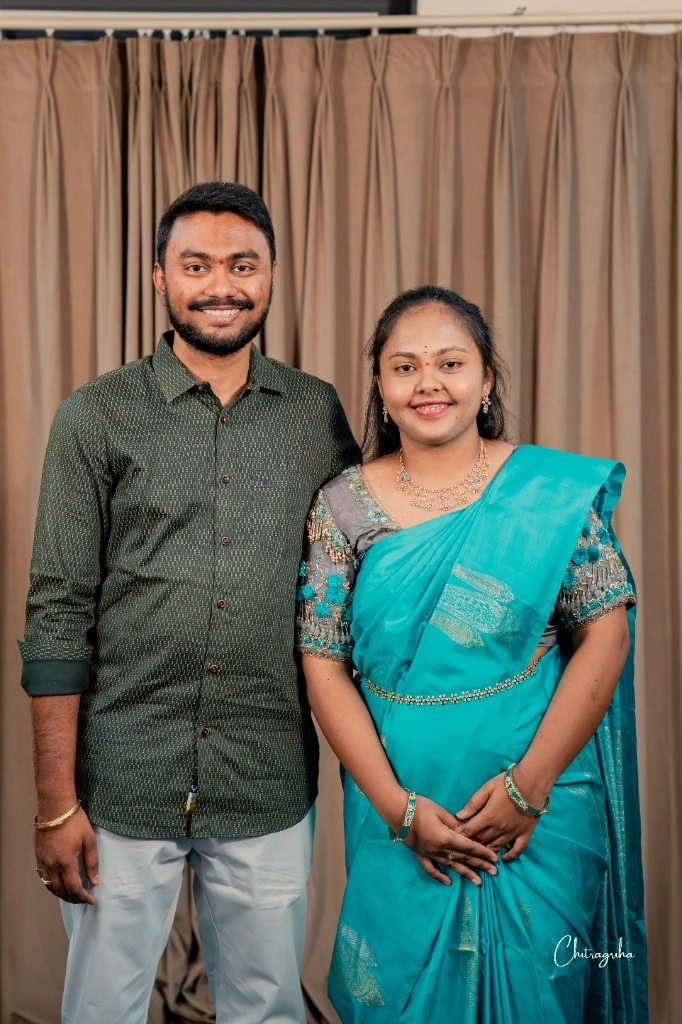
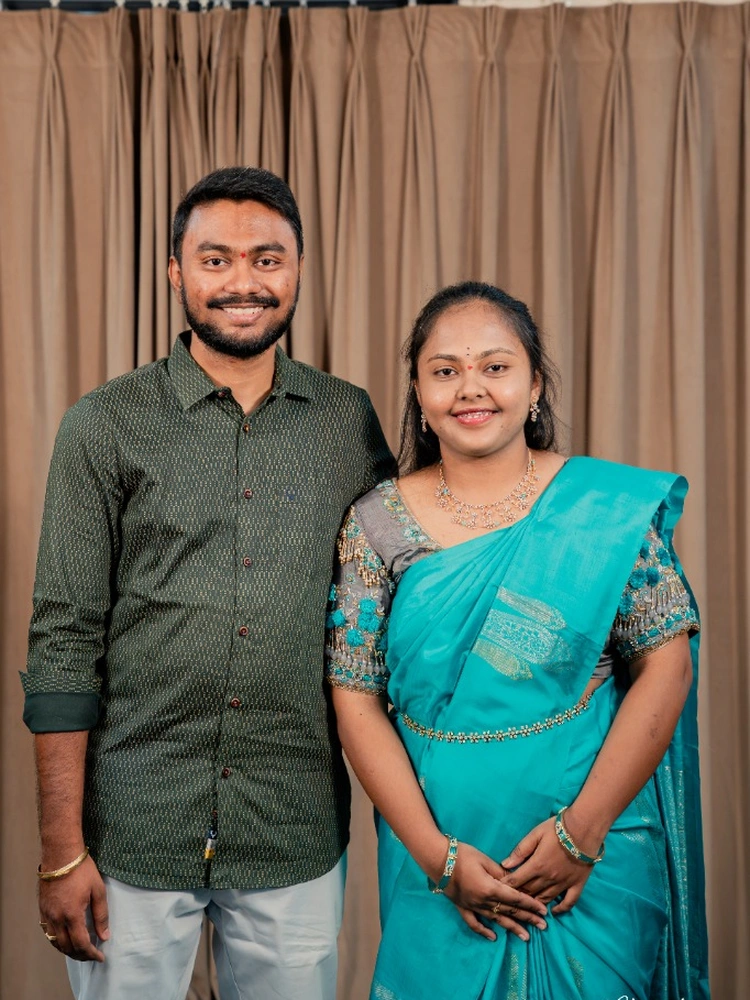
fix: center groom portrait, 3 couple photos centered in 3:4 frame, two-line hero date/place, responsive RSVP event card grid

diff --git a/index.html b/index.html
@@ -145,9 +145,10 @@
           <span class="div-line"></span>
         </div>
 
-        <!-- Single Line Wedding Date -->
+        <!-- Wedding Date & Venue City (Two Lines) -->
         <div class="hero-date">
-          <span>21 – 23 DECEMBER 2026 · RAYADURGAM</span>
+          <span class="hero-date-line">21 – 23 DECEMBER 2026</span>
+          <span class="hero-place-line">RAYADURGAM</span>
         </div>
 
       </div>
@@ -329,27 +330,17 @@
           <div class="big-carousel-slides" id="gallerySlides">
             <div class="big-slide-item active">
               <div class="big-photo-frame">
-                <img src="assets/gallery-couple-1.webp" alt="Royal Wedding Couple" />
+                <img src="assets/gallery-couple-1.webp" alt="Gurupreetham &amp; Sai Niharika" />
               </div>
             </div>
             <div class="big-slide-item">
               <div class="big-photo-frame">
-                <img src="assets/gallery-couple-2.webp" alt="Cherished Candid Moments" />
+                <img src="assets/gallery-couple-2.webp" alt="Cherished Moments Together" />
               </div>
             </div>
             <div class="big-slide-item">
               <div class="big-photo-frame">
-                <img src="assets/gallery-couple-3.webp" alt="Timeless Love and Warm Embrace" />
-              </div>
-            </div>
-            <div class="big-slide-item">
-              <div class="big-photo-frame">
-                <img src="assets/gallery-couple-4.webp" alt="Traditional Ceremonial Festivities" />
-              </div>
-            </div>
-            <div class="big-slide-item">
-              <div class="big-photo-frame">
-                <img src="assets/gallery-couple-5.webp" alt="Cherished Moments with Family" />
+                <img src="assets/gallery-couple-3.webp" alt="Gurupreetham &amp; Sai Niharika Celebrating with Rings" />
               </div>
             </div>
           </div>
@@ -572,26 +563,48 @@
 
           <!-- Attendance Details Section (Hidden automatically when 'Regretfully Decline' is clicked) -->
           <div id="rsvp-attendance-details">
-            <div class="form-row-dual">
-              <div class="form-field">
-                <label for="rsvp-guests">Number of Guests</label>
-                <select id="rsvp-guests">
-                  <option value="1">1 Person</option>
-                  <option value="2" selected>2 Persons</option>
-                  <option value="3">3 Persons</option>
-                  <option value="4">4 Persons</option>
-                  <option value="5+">5+ Family</option>
-                </select>
-              </div>
+            <div class="form-field">
+              <label for="rsvp-guests">Number of Guests</label>
+              <select id="rsvp-guests">
+                <option value="1">1 Person</option>
+                <option value="2" selected>2 Persons</option>
+                <option value="3">3 Persons</option>
+                <option value="4">4 Persons</option>
+                <option value="5+">5+ Family Members</option>
+              </select>
+            </div>
 
-              <div class="form-field">
-                <label>Events Attending</label>
-                <div class="event-checkboxes">
-                  <label><input type="checkbox" name="events" value="Haldi (21 Dec)" checked /> Haldi (21 Dec)</label>
-                  <label><input type="checkbox" name="events" value="Rayadurgam Reception (22 Dec)" checked /> Reception (22 Dec)</label>
-                  <label><input type="checkbox" name="events" value="Wedding Muhurtham (23 Dec)" checked /> Wedding (23 Dec)</label>
-                  <label><input type="checkbox" name="events" value="Anantapur Reception (25 Dec)" checked /> Grand Reception (25 Dec)</label>
-                </div>
+            <div class="form-field rsvp-events-field">
+              <label>Events Attending</label>
+              <div class="event-checkboxes-grid">
+                <label class="event-check-card">
+                  <input type="checkbox" name="events" value="Haldi (21 Dec)" checked />
+                  <div class="event-check-content">
+                    <span class="event-check-name">Haldi Ceremony</span>
+                    <span class="event-check-date">Monday, 21 Dec 2026</span>
+                  </div>
+                </label>
+                <label class="event-check-card">
+                  <input type="checkbox" name="events" value="Reception Rayadurgam (22 Dec)" checked />
+                  <div class="event-check-content">
+                    <span class="event-check-name">Reception (Rayadurgam)</span>
+                    <span class="event-check-date">Tuesday, 22 Dec 2026 · Evening</span>
+                  </div>
+                </label>
+                <label class="event-check-card">
+                  <input type="checkbox" name="events" value="Wedding Muhurtham (23 Dec)" checked />
+                  <div class="event-check-content">
+                    <span class="event-check-name">Wedding Muhurtham</span>
+                    <span class="event-check-date">Wednesday, 23 Dec 2026 · 10:45 AM</span>
+                  </div>
+                </label>
+                <label class="event-check-card">
+                  <input type="checkbox" name="events" value="Grand Reception Anantapur (25 Dec)" checked />
+                  <div class="event-check-content">
+                    <span class="event-check-name">Grand Reception (Anantapur)</span>
+                    <span class="event-check-date">Friday, 25 Dec 2026 · Evening</span>
+                  </div>
+                </label>
               </div>
             </div>
           </div>

diff --git a/style.css b/style.css
@@ -268,13 +268,31 @@ button {
 
 /* Hero Date */
 .hero-date {
+  display: flex;
+  flex-direction: column;
+  align-items: center;
+  justify-content: center;
+  gap: 5px;
+  margin-bottom: 16px;
+  text-align: center;
+}
+
+.hero-date-line {
   font-family: var(--font-serif);
   font-size: 0.95rem;
   font-weight: 600;
   letter-spacing: 2.5px;
   color: var(--color-royal-blue);
-  margin-bottom: 16px;
-  white-space: nowrap;
+  line-height: 1.3;
+}
+
+.hero-place-line {
+  font-family: var(--font-heading);
+  font-size: 0.85rem;
+  font-weight: 700;
+  letter-spacing: 3.5px;
+  color: var(--color-gold-dark);
+  line-height: 1.2;
 }
 
 /* Radha Krishna Hero Artwork - Elevated elegantly inside the circular mandala */
@@ -887,15 +905,21 @@ button {
 .big-photo-frame {
   position: relative;
   width: 100%;
-  aspect-ratio: 4 / 3;
+  aspect-ratio: 3 / 4;
+  max-width: 420px;
+  margin: 0 auto;
+  border-radius: var(--radius-md);
   overflow: hidden;
   background: #F3F5FA;
+  box-shadow: 0 10px 25px rgba(19, 57, 121, 0.1);
+  border: 1px solid rgba(212, 175, 55, 0.35);
 }
 
 .big-photo-frame img {
   width: 100%;
   height: 100%;
   object-fit: cover;
+  object-position: center center;
   display: block;
 }
 
@@ -1410,6 +1434,68 @@ button {
     grid-template-columns: 1fr 1fr;
     gap: 14px;
   }
+}
+
+.event-checkboxes-grid {
+  display: grid;
+  grid-template-columns: 1fr;
+  gap: 10px;
+  margin-top: 8px;
+}
+
+@media (min-width: 460px) {
+  .event-checkboxes-grid {
+    grid-template-columns: 1fr 1fr;
+  }
+}
+
+.event-check-card {
+  display: flex;
+  align-items: center;
+  gap: 12px;
+  padding: 10px 14px;
+  background: #ffffff;
+  border: 1.5px solid rgba(212, 175, 55, 0.4);
+  border-radius: var(--radius-sm);
+  cursor: pointer;
+  transition: all 0.25s ease;
+  box-shadow: 0 2px 6px rgba(19, 57, 121, 0.04);
+}
+
+.event-check-card:hover {
+  border-color: var(--color-royal-blue);
+  background: rgba(212, 175, 55, 0.06);
+}
+
+.event-check-card input[type="checkbox"] {
+  width: 18px;
+  height: 18px;
+  accent-color: var(--color-royal-blue);
+  cursor: pointer;
+  flex-shrink: 0;
+}
+
+.event-check-content {
+  display: flex;
+  flex-direction: column;
+  gap: 2px;
+  text-align: left;
+}
+
+.event-check-name {
+  font-family: var(--font-heading);
+  font-size: 0.88rem;
+  font-weight: 600;
+  color: var(--color-royal-blue);
+  line-height: 1.25;
+}
+
+.event-check-date {
+  font-family: var(--font-sans);
+  font-size: 0.74rem;
+  color: var(--color-gold-dark);
+  font-weight: 600;
+  letter-spacing: 0.02em;
 }
 
 .event-checkboxes {
